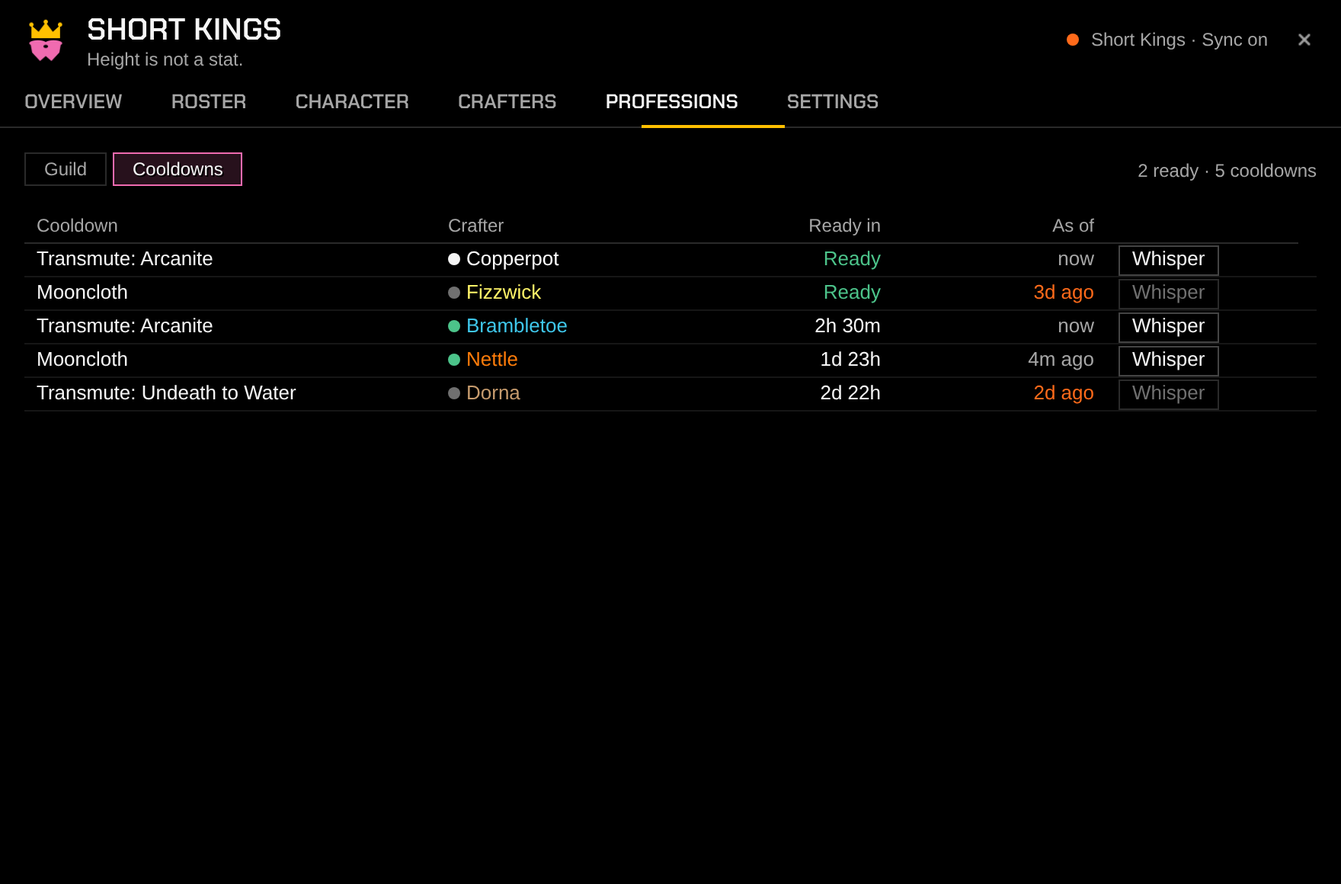
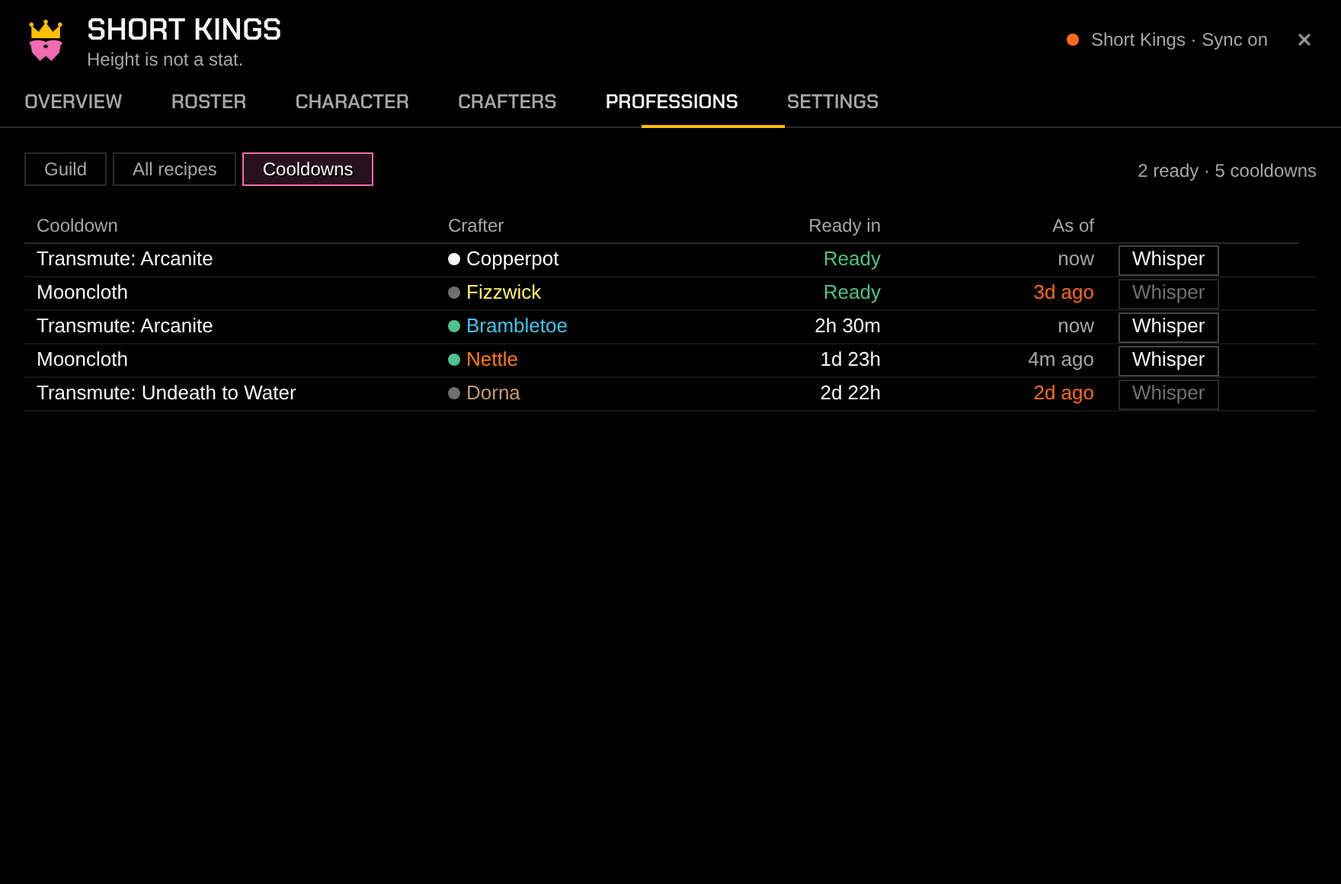
v0.3.1 docs, preview and pictures: All recipes, Getting started, Wowhead link
Claude-Session: https://claude.ai/code/session_01A7mubKGBR11Avqu3i7SrV1

Changed region(s): [[0.0625, 0.1552, 0.2812, 0.2172]]

diff --git a/preview/index.html b/preview/index.html
@@ -365,10 +365,14 @@ function overview() {
     <div class="abs" style="left:${x(2)}px;top:28px;width:${W}px">${block("Raids", raidRows, ["Onyxia list", "raid"], "position:static")}
       ${block("Professions", profRows, ["Find a crafter", "crafters"], "position:static;margin-top:20px")}</div>
     <div class="abs" style="left:${x(3)}px;top:28px;width:${W}px">
-      <div class="block" style="position:relative;height:196px"><div class="bhead"><span class="h display">Recent milestones</span></div>
+      ${S.start ? block("Getting started", [
+        { label: "Open your profession windows once", lt: 1, value: "to do", tone: "spark" }, { text: "Tailoring, Alchemy", tone: "dim", indent: 1 },
+        { label: "Check your Character tab", value: "done", tone: "good" }, { label: "Choose what you share (Settings)", lt: 1, value: "to do", tone: "spark" },
+        { label: "Get guildmates to install it", lt: 1, value: "to do", tone: "spark" }, { text: "1 of 29 have it", tone: "dim", indent: 1 }],
+        ["Hide", "overview"], "position:static") : `<div class="block" style="position:relative;height:196px"><div class="bhead"><span class="h display">Recent milestones</span></div>
       ${list([{ key: "w", w: 36 }, { key: "t", w: W - 36 - 52 - 12 }, { key: "b", w: 52 }], feed, (e, c) => c.key === "w" ? `<span class="dim">${e[0]}</span>` : c.key === "t" ? cls(e[1]).replace(esc(e[1].name), esc(e[1].name.split(" ")[0])) + " " + esc(e[2]) : (e[3] ? btn("Grats", "small") : ""),
-        { header: false, click: true, empty: "Level-ups, profession milestones, attunements and new recipes show here as your addon sees them.", style: "left:0;right:0;top:32px;bottom:0" })}</div>
-      ${block("Recipes", recipeRows, ["Search recipes", "crafters"], "position:static;margin-top:20px")}</div>`;
+        { header: false, click: true, empty: "Level-ups, profession milestones, attunements and new recipes show here as your addon sees them.", style: "left:0;right:0;top:32px;bottom:0" })}</div>`}
+      ${block("Recipes", recipeRows, ["Search recipes", "professions"], "position:static;margin-top:20px")}</div>`;
 }
 
 // ---------------------------------------------------------------- roster
@@ -485,11 +489,14 @@ function crafters() {
       <div class="abs dim" style="left:12px;top:${r.name.length > 44 ? 50 : 32}px;font-size:12px">${r.prof} · ${plural(r.crafters.length, "crafter")}${r.crafters.some((k) => k[3]) ? ` (${r.crafters.filter((k) => k[3]).length} online)` : ""}</div>
       ${list([{ key: "n", t: "Crafter", w: 138 }, { key: "s", t: "Skill", w: 44, r: 1 }, { key: "i", t: "", w: 74 }, { key: "b", t: "", w: 64 }], r.crafters,
         (k, c) => c.key === "n" ? dot(k[3] ? "good" : "faint") + `<span style="color:${CLASS[k[1]]}">${esc(k[0])}</span>` : c.key === "s" ? k[2] : c.key === "i" ? `<span class="dim">${k[4] || ""}</span>` : btn("Whisper", "small" + (k[3] ? "" : " disabled")),
-        { click: true, style: "left:12px;right:12px;top:72px;bottom:48px" })}
-      ${btn("Post to guild chat", "primary", 'style="position:absolute;left:12px;bottom:12px"')}${btn("Copy", "", 'style="position:absolute;left:156px;bottom:12px"')}`
+        { click: true, style: "left:12px;right:12px;top:72px;bottom:96px" })}
+      <span class="chip" style="position:absolute;right:12px;top:12px">Star</span>
+      <div class="abs dim" style="left:12px;right:12px;bottom:48px;font-size:12px;line-height:1.35">Needs: 1 Thorium Bar <span class="good">(have 3)</span>, &nbsp;1 Arcane Crystal <span class="dim">(have 0)</span></div>
+      ${btn("Post to guild chat", "primary", 'style="position:absolute;left:12px;bottom:12px"')}${btn("Copy", "", 'style="position:absolute;left:156px;bottom:12px"')}${btn("Wowhead", "", 'style="position:absolute;left:226px;bottom:12px"')}`
     : `<div class="abs dim" style="left:12px;right:12px;top:12px;line-height:1.35">Pick an item on the left to see who in the guild can make it, who's online, and to whisper them.</div>`;
   return `<div class="search abs" style="left:0;top:0;width:260px"><input id="csearch" placeholder="Search an item or recipe" value="${esc(S.crafterQuery)}"></div>
-    <div class="abs dim ell" style="left:272px;width:204px;top:4px;font-size:12px">${st}</div>
+    <span class="chip" style="position:absolute;left:268px;top:1px">Favourites</span>
+    <div class="abs dim ell" style="left:368px;width:108px;top:4px;font-size:12px">${st}</div>
     ${list([{ key: "n", t: "Item or recipe", w: 250 }, { key: "p", t: "Profession", w: 100 }, { key: "c", t: "Crafters", w: 114, r: 1 }], loading ? [] : results, cell,
       { click: true, loading, empty, sel: (x) => x === r, style: "left:0;top:36px;bottom:0;width:476px", rowAttr: (x) => `data-recipe="${results.indexOf(x)}"` })}
     <div class="side" style="left:492px;right:0;top:36px;bottom:0">${side}</div>`;
@@ -525,11 +532,25 @@ function professions() {
       <div class="abs" style="left:456px;top:36px;display:flex;gap:4px">${chips([["all", "All"], ["one", "Only one crafter"], ["fav", "Favourites"], ["nobody", "Nobody knows"]], "all")}</div>
       ${list([{ key: "n", t: "Recipe", w: 290 }, { key: "c", t: "Crafters", w: 90, r: 1 }], PROF_RECIPES, rcell, { click: true, style: "left:456px;right:0;top:68px;bottom:0" })}`;
   }
+  if (S.profView === "recipes") {
+    const ALL = [["Arcanite Bar", "#ffffff", "Alchemy", "Transmutes", 2, "Thorium Bar"], ["Arcanite Reaper", "#a335ee", "Blacksmithing", "Axes", 1, "Thorium Bar"],
+      ["Dense Grinding Stone", "#ffffff", "Blacksmithing", "Materials", 4, "Thorium Bar"], ["Imperial Plate Belt", "#1eff00", "Blacksmithing", "Plate Belts", 0, "Thorium Bar"],
+      ["Mithril Gyro-Shot", "#ffffff", "Engineering", "Ammunition", 0, "Thorium Bar"], ["Runic Plate Boots", "#0070dd", "Blacksmithing", "Plate Boots", 0, "Thorium Bar"],
+      ["Thorium Grenade", "#ffffff", "Engineering", "Explosives", 2, "Thorium Bar"], ["Thorium Widget", "#ffffff", "Engineering", "Parts", 1, ""], ["Thorium Bar", "#ffffff", "Mining", "Smelted Bars", 3, ""]];
+    const cell = (r, c) => c.key === "n" ? `<span style="color:${r[1]}">${esc(r[0])}</span>` : c.key === "p" ? `<span class="dim">${r[2]}</span>`
+      : c.key === "g" ? `<span class="dim">${r[3]}${r[5] && !r[0].startsWith("Thorium") ? " &nbsp;·&nbsp; uses " + r[5] : ""}</span>` : r[4] === 0 ? `<span class="spark">nobody</span>` : r[4] === 1 ? `<span class="spark">1</span>` : r[4];
+    return `<div class="abs" style="left:0;top:0;display:flex;gap:4px">${chips([["board", "Guild"], ["recipes", "All recipes"], ["cooldowns", "Cooldowns"]], "recipes")}</div>
+      <div class="abs dim ell" style="right:0;top:4px;font-size:12px">${ALL.length} recipes</div>
+      <div class="search abs" style="left:0;top:36px;width:300px"><input placeholder="Search recipes, groups or materials" value="thorium"></div>
+      ${btn("All professions", "", 'style="position:absolute;left:308px;top:36px;width:170px;text-align:left"')}
+      ${list([{ key: "n", t: "Recipe", w: 330 }, { key: "p", t: "Profession", w: 130 }, { key: "g", t: "Group", w: 266 }, { key: "c", t: "Crafters", w: 110, r: 1 }],
+        ALL, cell, { click: true, style: "left:0;top:72px;bottom:0;right:0" })}`;
+  }
   if (S.profView === "cooldowns") {
     const cell = (r, c) => c.key === "n" ? esc(r[0]) : c.key === "w" ? dot(r[3] === "addon" ? "good" : r[3] === "online" ? "text" : "faint") + `<span style="color:${CLASS[r[2]]}">${esc(r[1])}</span>`
       : c.key === "l" ? (r[4] === 0 ? `<span class="good">Ready</span>` : r[4] < 24 ? `${Math.floor(r[4])}h ${Math.round((r[4] % 1) * 60)}m` : `${Math.floor(r[4] / 24)}d ${Math.round(r[4] % 24)}h`)
       : c.key === "a" ? `<span class="${r[6] ? "spark" : "dim"}">${r[5]}</span>` : btn("Whisper", "small" + (r[3] === "offline" ? " disabled" : ""));
-    return `<div class="abs" style="left:0;top:0;display:flex;gap:4px">${chips([["board", "Guild"], ["cooldowns", "Cooldowns"]], "cooldowns")}</div>
+    return `<div class="abs" style="left:0;top:0;display:flex;gap:4px">${chips([["board", "Guild"], ["recipes", "All recipes"], ["cooldowns", "Cooldowns"]], "cooldowns")}</div>
       <div class="abs dim ell" style="right:0;top:4px;font-size:12px">2 ready · 5 cooldowns</div>
       ${list([{ key: "n", t: "Cooldown", w: 270 }, { key: "w", t: "Crafter", w: 190 }, { key: "l", t: "Ready in", w: 110, r: 1 }, { key: "a", t: "As of", w: 140, r: 1 }, { key: "b", t: "", w: 126 }],
         none ? [] : PROF_CDS, cell, { click: true, empty: "No profession cooldowns yet.", style: "left:0;top:36px;bottom:0;right:0" })}`;
@@ -546,7 +567,7 @@ function professions() {
       default: return `<span class="dim">${r[6]}</span>`;
     }
   };
-  return `<div class="abs" style="left:0;top:0;display:flex;gap:4px">${chips([["board", "Guild"], ["cooldowns", "Cooldowns"]], "board")}</div>
+  return `<div class="abs" style="left:0;top:0;display:flex;gap:4px">${chips([["board", "Guild"], ["recipes", "All recipes"], ["cooldowns", "Cooldowns"]], "board")}</div>
     <div class="abs dim ell" style="right:0;top:4px;font-size:12px">${none ? "" : "1 profession nobody has"}</div>
     ${none ? "" : nudge}
     ${list([{ key: "n", t: "Profession", w: 170 }, { key: "c", t: "Characters", w: 88, r: 1 }, { key: "m", t: "At 300", w: 70, r: 1 }, { key: "o", t: "Online", w: 70, r: 1 },
@@ -716,7 +737,7 @@ function seg(id) {
 try { Object.assign(S, JSON.parse(localStorage.getItem("skPreview") || "{}")); } catch (e) { /* ignore */ }
 // ?screen=roster&data=worst&view=before&raid=ony  (and &shot=1 for the README pictures: window only, no chrome)
 const Q = new URLSearchParams(location.search);
-for (const k of ["screen", "data", "view", "raid", "prof", "profView"]) if (Q.get(k)) S[k] = Q.get(k);
+for (const k of ["screen", "data", "view", "raid", "prof", "profView", "start"]) if (Q.get(k)) S[k] = Q.get(k);
 const SHOT = Q.get("shot");
 if (SHOT) {
   document.body.classList.add("shot"); S.view = SHOT === "compare" ? "before" : "after"; S.reduce = true;

diff --git a/docs/mockups/render.js b/docs/mockups/render.js
@@ -24,6 +24,8 @@ const SHOTS = {
   professions: ["shot=1&screen=professions&data=full", W, H],
   "professions-one": ["shot=1&screen=professions&data=full&prof=171", W, H],
   cooldowns: ["shot=1&screen=professions&data=full&profView=cooldowns", W, H],
+  "all-recipes": ["shot=1&screen=professions&data=full&profView=recipes", W, H],
+  "getting-started": ["shot=1&screen=overview&data=full&start=1", W, H],
   settings: ["shot=1&screen=settings&data=full", W, H],
   "before-after": ["shot=compare&screen=overview&data=full", 2 * W + 72, H + 84],
   palette: ["shot=palette", 1200, 484],

diff --git a/README.md b/README.md
@@ -43,7 +43,7 @@
 | 👥 **Roster** | The whole guild in one sortable, searchable list, with alts folded under mains and a raid-attunement view |
 | 🛡 **Character** | Anyone's gear, talents, professions, cooldowns, attunements and reputations |
 | ⚒ **Crafters** | Search an item or recipe and see who in the guild can make it, online first, with its reagents and your bag counts |
-| 🧪 **Professions** | Every profession in the guild, each profession's crafters and recipes, everyone's cooldowns, specialisations and favourites |
+| 🧪 **Professions** | Every profession in the guild, **every recipe in the game** (search by name, group or material), each profession's crafters, everyone's cooldowns, specialisations and favourites |
 | ⚙ **Settings** | Sharing and privacy switches, display options, window size, tools and a live status read-out |
 | 🧨 **Everywhere** | `/sk`, a minimap button, "Crafted by" lines on item tooltips, chat reminders and a copyable debug report |
 
@@ -58,6 +58,10 @@ section has a link to the place where you can act on it.
 - **Data health**: members without Short Kings data, profiles older than a week, profession windows never opened, and anyone on an old Short Kings (you included). "All good" when there's nothing to fix. *Oldest first* opens the Roster with missing and oldest data on top.
 - **Professions**: characters per crafting profession, how many are at 300 (or the best so far), **nobody** in red where the guild has a gap, and one line for gathering. *Find a crafter*.
 - **Recipes**: recipes the guild knows, from how many crafters, and how many **only one character** knows, with examples, so you can see where there's no backup. *Search recipes*.
+- **Getting started** (new players, in place of milestones): open your profession windows (it names which), check your Character tab, choose what you share, mark your main on an alt, and how many guildmates have Short Kings. Ticks itself off and goes away when done, or click **Hide**.
+
+<p align="center"><img src="docs/images/getting-started.png" alt="Getting started" width="100%"></p>
+
 - **Recent milestones**: level-ups (every 10 levels), profession 75/150/225/300, Onyxia attunement and new recipes. Hover for when, click to open the character, **Grats** types "Grats Bramble on level 60!" into guild chat (you press Enter).
 
 The line above the columns shows your guild, members and who's online.
@@ -107,7 +111,8 @@ Onyxia's Lair, Forever's first wave) to see who's attuned:
 - **Results** (up to 200): the item's icon, its name in quality colour, the profession, and how many crafters there are (and how many online). Hover for the real item tooltip; click to pick it.
 - **Side panel:** every crafter, online first, then by skill, with a status dot, their skill, *on Gillybean* when they're on an alt (Whisper goes there) or *alt of X*, and a **Whisper** button. Long item names wrap rather than being cut off.
 - **Post to guild chat** (gold) types "[Item] can be made by: A, B, C" into your chat box; you press Enter. **Copy** gives the list as plain text.
-- **Reagents** under the crafter list: icon, name, how many, and how many you have in your bags (green when you have enough). Read from your own game, so they show once you've opened that profession's window; never sent to anyone.
+- **Wowhead** gives you the recipe's [Wowhead](https://www.wowhead.com/forever) page as a link to copy. **Star** (top right) adds it to your favourites.
+- **Reagents** under the crafter list: icon, name, how many, and how many you have in your bags (green when you have enough). From your own game when it can say, otherwise from the built-in recipe list, so they show even for recipes nobody knows. Never sent to anyone.
 - **Favourites:** right-click a result or a crafter to star it (a pink star). The **Favourites** chip lists only starred recipes; starred crafters come first among the same status. Saved on your computer only.
 - Recipes come from each crafter's last visit to their profession window. While item names load from the game, placeholder rows show where results will appear.
 
@@ -120,7 +125,11 @@ Onyxia's Lair, Forever's first wave) to see who's attuned:
 <p align="center"><img src="docs/images/professions-one.png" alt="One profession" width="100%"></p>
 
 - **Gathering professions too:** in Forever, Herbalism and others have recipes (camping items like the Seed Hybridizer); they're recorded and listed like crafting ones.
-- **One profession:** everyone with it (status dot, star, *alt of X*, skill, specialisation, "recipes recorded 3d ago" in orange after a week, **Whisper**) and every recipe known in the guild with its crafter count (a lone crafter in orange). Filters: **All**, **Only one crafter**, **Favourites**, and **Nobody knows** (recipes the game's window lists that nobody has learned, shown only once the game has listed some). Hover a recipe for its reagents; click to open it in Crafters; right-click to star it.
+- **All recipes:** every profession recipe in Forever (about 2,250), learned or not. Type at least 3 letters: a recipe or item ("mooncloth"), a group from the profession window ("camping", "transmutes") or a **material** ("thorium bar" shows everything that uses it). Or pick a profession to see all of its recipes. Each row shows the profession, group and how many guildmates can make it (**nobody** in orange). Click for crafters, reagents and a Wowhead link.
+
+<p align="center"><img src="docs/images/all-recipes.png" alt="All recipes search" width="100%"></p>
+
+- **One profession:** everyone with it (status dot, star, *alt of X*, skill, specialisation, "recipes recorded 3d ago" in orange after a week, **Whisper**) and every recipe known in the guild with its crafter count (a lone crafter in orange). Filters: **All**, **Only one crafter**, **Favourites**, and **Nobody knows** (every recipe of that profession in the game that nobody in the guild has learned). Hover a recipe for its reagents; click to open it in Crafters; right-click to star it.
 
 <p align="center"><img src="docs/images/cooldowns.png" alt="Cooldown board" width="100%"></p>
 
@@ -142,6 +151,7 @@ Onyxia's Lair, Forever's first wave) to see who's attuned:
 - **The window** opens on the Overview the first time, then on your last tab. Drag it by the title bar; it remembers where you left it. **Esc** closes it. The title bar shows the crest, your guild and the sync status.
 - **Automatic collection** on every character you play: gear, item level, talents, reputations, professions, recipes (when you open the profession window), cooldowns, attunements and your other characters.
 - **"Crafted by" on item tooltips:** hover any item to see "Short Kings: Bramble (online), Dabble +2 more". Online crafters first, at most three names.
+- **A welcome line** the first time Short Kings loads, pointing to *Getting started*.
 - **Chat reminders** for profession windows still to open (and, rarely, ones to reopen after your skill went up), a newer Short Kings, and trial accounts that can't share.
 - **`/sk debug`** opens a copyable report of what the addon can see, starting with the live-client checks and the profession checks for v0.3 (unlearned recipes, recipe categories, reagents, specialisations), and ending with the last Lua errors it caught. **Send it when something looks wrong.**
 
@@ -326,6 +336,7 @@ The full design, data format and merge rules are in [PLAN.md](PLAN.md).
 - [x] **v0.2.5**: first in-game test (5 Nov): sync switched back on, enchant check at level 60, security fixes
 - [x] **v0.2.6**: hotfix, no more false "send errors"
 - [x] **v0.2.7**: `/sk debug` profession checks (what the game shows, before v0.3 is built)
+- [ ] **v0.3.1**: every recipe in the game with search (name, group, material), Wowhead links, Getting started
 - [x] **v0.3.0 Professions**: guild coverage, crafters and recipes per profession, cooldown board, specialisations, reagents, favourites, reminders
 - [ ] **In-game test round** with guildmates (TESTING.md), then fixes
 - [ ] **v0.4**: **Raids**, built on the guild calendar: sign-ups, roles, line-up with attunement and readiness, reminders, invite-all (before raids open on 9 Dec)
@@ -420,6 +431,11 @@ Libraries: Ace3 (AceComm, CallbackHandler, LibStub, ChatThrottleLib),
 [LibSerialize](https://github.com/rossnichols/LibSerialize) by Ross Nichols,
 [LibDeflate](https://github.com/SafeteeWoW/LibDeflate) by Haoqian He,
 LibDataBroker and LibDBIcon. Licences are in [Libs/README.md](Libs/README.md).
+
+The built-in recipe list (`Data/Recipes.lua`) is generated by
+`tools/recipes.js` from the game's own data tables for the Forever build, as
+published by [wago.tools](https://wago.tools). Only IDs are stored; every name
+comes from your own game. Recipe links point to [Wowhead](https://www.wowhead.com/forever).
 
 Titles use [Chakra Petch](https://fonts.google.com/specimen/Chakra+Petch) by
 Cadson Demak (SIL Open Font License 1.1, bundled in `Media/Fonts/` with its

diff --git a/CLAUDE.md b/CLAUDE.md
@@ -176,9 +176,11 @@ Core/     Init (events, timers, modules), Log (+ error capture: SK:Safe,
           (mutual-link groups), CraftIndex (recipe/item → crafters, async
           names), Favourites (local stars), Reagents (GetRecipeSchematic
           cache, local), ProfBoard (numbers for the Professions tab),
+          RecipeDB (every recipe + search), Onboarding (Getting started),
           Export (plain text for Copy), Feed (local milestones,
           never synced), Overview (numbers for the Overview tab)
-Data/     Professions, Attunements (quest IDs), Factions, Enchants
+Data/     Professions, Recipes (GENERATED by tools/recipes.js), Attunements
+          (quest IDs), Factions, Enchants
 Collect/  Character, Talents, Professions (recipe scan), Reputation,
           Attunements, Profile (full/public copies, cooldowns, main)
 Sync/     Codec (LibSerialize stable → LibDeflate), Merge (rules), Sync (protocol)
@@ -193,7 +195,8 @@ UI/       Theme (EVERY colour/font/size/spacing/motion value), Motion
 Media/    Fonts.xml (Arial Narrow families + CJK fallback), Fonts/ (Chakra
           Petch, OFL), Textures/ (crest, arrow, close, dot, ring, star .tga)
 preview/  browser mock-up of every window (theme.css/js generated)
-tools/    textures.js (draws Media/Textures), preview-tokens.js
+tools/    textures.js (draws Media/Textures), preview-tokens.js, recipes.js
+          (Data/Recipes.lua from wago.tools)
 Libs/     vendored Ace3 bits, LibSerialize, LibDeflate; LDB + LibDBIcon via .pkgmeta
 tests/    busted specs; tests/helpers/wow.lua is the stubbed WoW API
 docs/     FEATURE-REVIEW.md, SECURITY-REVIEW.md, mockups/render.js, images/ (+ before/), prompts/,
@@ -265,7 +268,10 @@ messages → sender ignored for the session).
   The owner says the titles **look fine in game** even though v0.2.7's
   /sk debug reported the display font as failed (the check may have been a
   false alarm; v0.3.0's debug line counts it per text).
-  **Next: CurseForge** (owner asked 6 Nov): `docs/CURSEFORGE.md`.
+  **Next: CurseForge** (owner asked 6 Nov): `docs/CURSEFORGE.md`, waiting for
+  the owner's project ID and `CF_API_KEY` secret.
+  **v0.3.1 built 7 Nov** (not released): every recipe in the game from
+  wago.tools data, All recipes search, Wowhead links, Getting started.
   Plan and what was left out: **PLAN.md section 11**.
 - Earlier plan: PLAN.md **section 10, "Once Forever is live"**: the in-game test
   gate (TESTING.md, `/sk debug` "Live-client checks"), its decision table,
@@ -300,6 +306,23 @@ messages → sender ignored for the session).
   - "At 300" uses `SK.Data.SKILL_CAP` (original-game cap; confirm in game).
   - Clicking a recipe in Professions opens it in Crafters
     (`CraftersTab:ShowRecipe`), including recipes nobody knows.
+- Decisions in v0.3.1:
+  - Recipe list: `node tools/recipes.js [build]` downloads SkillLineAbility,
+    TradeSkillCategory, SpellEffect (Effect 24 = create item) and SpellReagents
+    CSVs from wago.tools (product `wowf` = Forever) and writes
+    `Data/Recipes.lua` (IDs, category, item, reagents; **no names**).
+    Categories named Season of Discovery / PROTOTYPE / [DNT] are excluded.
+    Rerun it after a Forever patch. Verified against the owner's game: Seed
+    Hybridizer's reagents match exactly.
+  - **Don't scrape Wowhead** (terms forbid it); link to it instead:
+    `https://www.wowhead.com/forever/item=<id>` or `/spell=<id>` (path
+    checked 7 Nov).
+  - `Compat.SpellExists` (`C_Spell.DoesSpellExist`) hides recipes the client
+    lacks. Name loads are budgeted (`CI.SetBudget`, 200 per search); names the
+    game can't load are not re-requested (`CI.failedItems`).
+  - Getting started: `Core/Onboarding.lua` (pure `Steps`), shown in the
+    Overview's milestones slot; `settings.seen[tab]`, `settings.onboarding.hidden`,
+    `settings.welcomed`.
 - Decisions in v0.2.2:
   - Overview numbers come from `Core/Overview.lua` (pure); attunement logic
     lives in `Collect/Attunements.lua` (`Att.StateOf`), shared by Roster,

diff --git a/TESTING.md b/TESTING.md
@@ -297,6 +297,27 @@ in game if anything looks different and send it.
         Professions → Herbalism lists the camping recipes the window shows
         under **Nobody knows** (or **All** once learned).
 
+## v0.3.1 additions (every recipe, Getting started)
+
+98. [ ] Professions → **All recipes**: type "mooncloth", then "camping", then
+        "thorium bar". Results appear (names may fill in over a second or two)
+        and "thorium bar" lists recipes that **use** it ("uses Thorium Bar").
+99. [ ] Pick **Leatherworking** (or any profession) in the menu with the
+        search empty: all of its recipes are listed. Tell me if you spot
+        recipes that aren't in Forever (old or unused ones).
+100. [ ] Click a recipe nobody knows: Crafters shows "Nobody in the guild
+        knows this recipe yet" and **Needs:** with its materials, even with
+        no profession window open.
+101. [ ] **Wowhead** button: a window with the link opens, already selected;
+        Ctrl+C (Cmd+C), paste it into your browser: it opens the right
+        Wowhead Forever page.
+102. [ ] On a new character (or after deleting the saved variables): chat
+        says "Welcome to Short Kings!" once; the Overview shows **Getting
+        started**; the steps tick off as you open profession windows, the
+        Character tab and Settings; **Hide** puts the milestones back.
+103. [ ] `/sk debug`, "== Professions API ==": the "Recipe list" line shows
+        about 2,250 recipes and "not on this client: 0" (or a small number).
+
 ## Known gaps in v0.1
 
 - No Raids tab yet (v0.4).

diff --git a/CHANGELOG.md b/CHANGELOG.md
@@ -1,5 +1,23 @@
 # Changelog
 
+## v0.3.1 (not released yet): every recipe, search, Getting started
+
+- **Every recipe in the game.** Professions → **All recipes** lists all
+  ~2,250 profession recipes in Forever, learned or not. Search by name, by
+  the profession window's group ("camping") or by a material ("thorium bar"
+  shows everything that uses it), or pick a profession to see them all. The
+  list comes from the game's own data for the Forever build (via
+  wago.tools); names come from your game.
+- **Nobody knows** on each profession now lists every recipe nobody in the
+  guild has learned, not only what your own window showed.
+- **Reagents everywhere:** shown even with the profession window closed and
+  for recipes nobody knows.
+- **Wowhead link** for any recipe (Crafters panel), to copy into your browser.
+- **Getting started** checklist on the Overview for new players, and a
+  welcome line the first time Short Kings loads.
+- Fix: item names the game can't load are no longer asked for again and
+  again (they could slow down searches).
+
 ## v0.3.0 (6 Nov 2026): Professions
 
 A new **Professions** tab, after Crafters. Works alongside guildmates on

diff --git a/PLAN.md b/PLAN.md
@@ -461,6 +461,12 @@ classicdb.ch (two sources); the game still has to confirm them.
   names work. The bundled display font failed to load (fixed in v0.3.0 by
   preloading it, to be confirmed).
 - Still open: reagents with the window closed; `IsSpellKnown` for a spec owner.
+- **v0.3.1 (7 Nov, owner asked):** every recipe in the game, bundled from the
+  game's own data tables via wago.tools (`tools/recipes.js` → `Data/Recipes.lua`,
+  IDs only), search by name / group / material, Wowhead links, Getting started.
+  This replaced the "share each window's list over sync" idea (no protocol change).
+  Wowhead itself isn't used as a data source (its terms forbid copying it).
+  Later from the same data: where each recipe comes from (trainer / item).
 - **Camp planner (P6) is now possible**: the camping recipes, their
   categories and reagents are all readable. Candidate for v0.3.x/v0.5,
   only if the owner asks.
